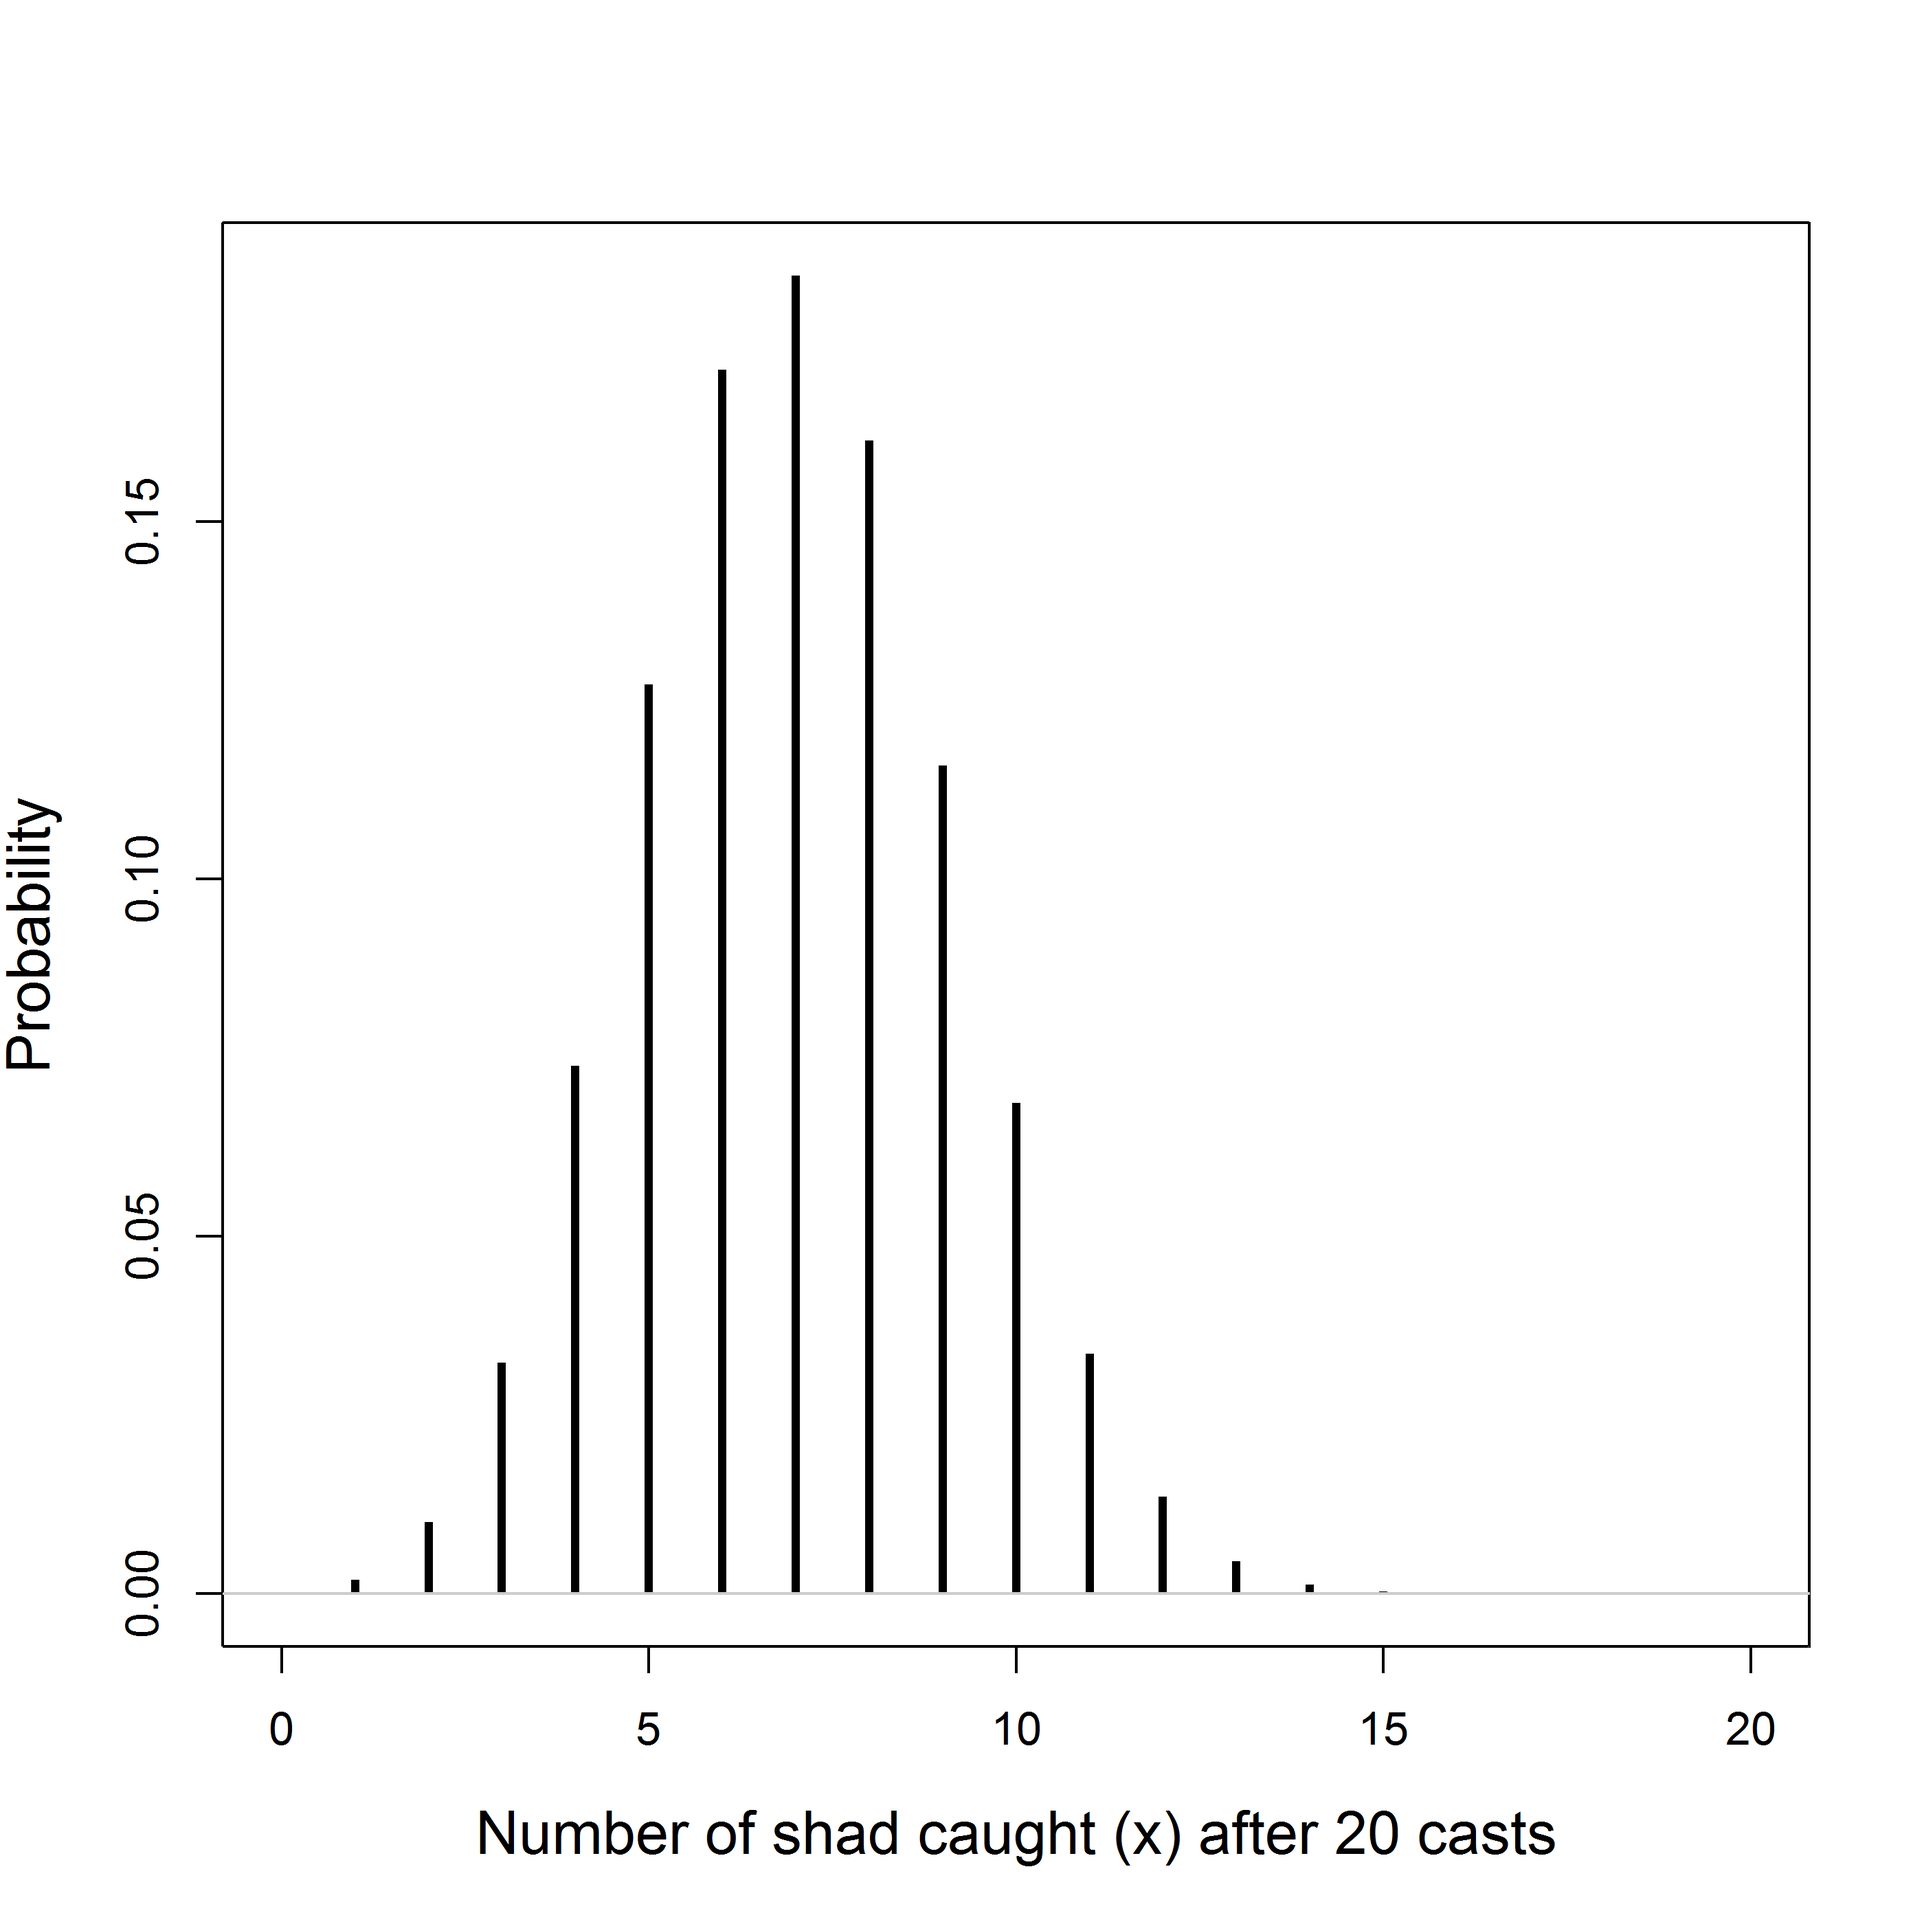
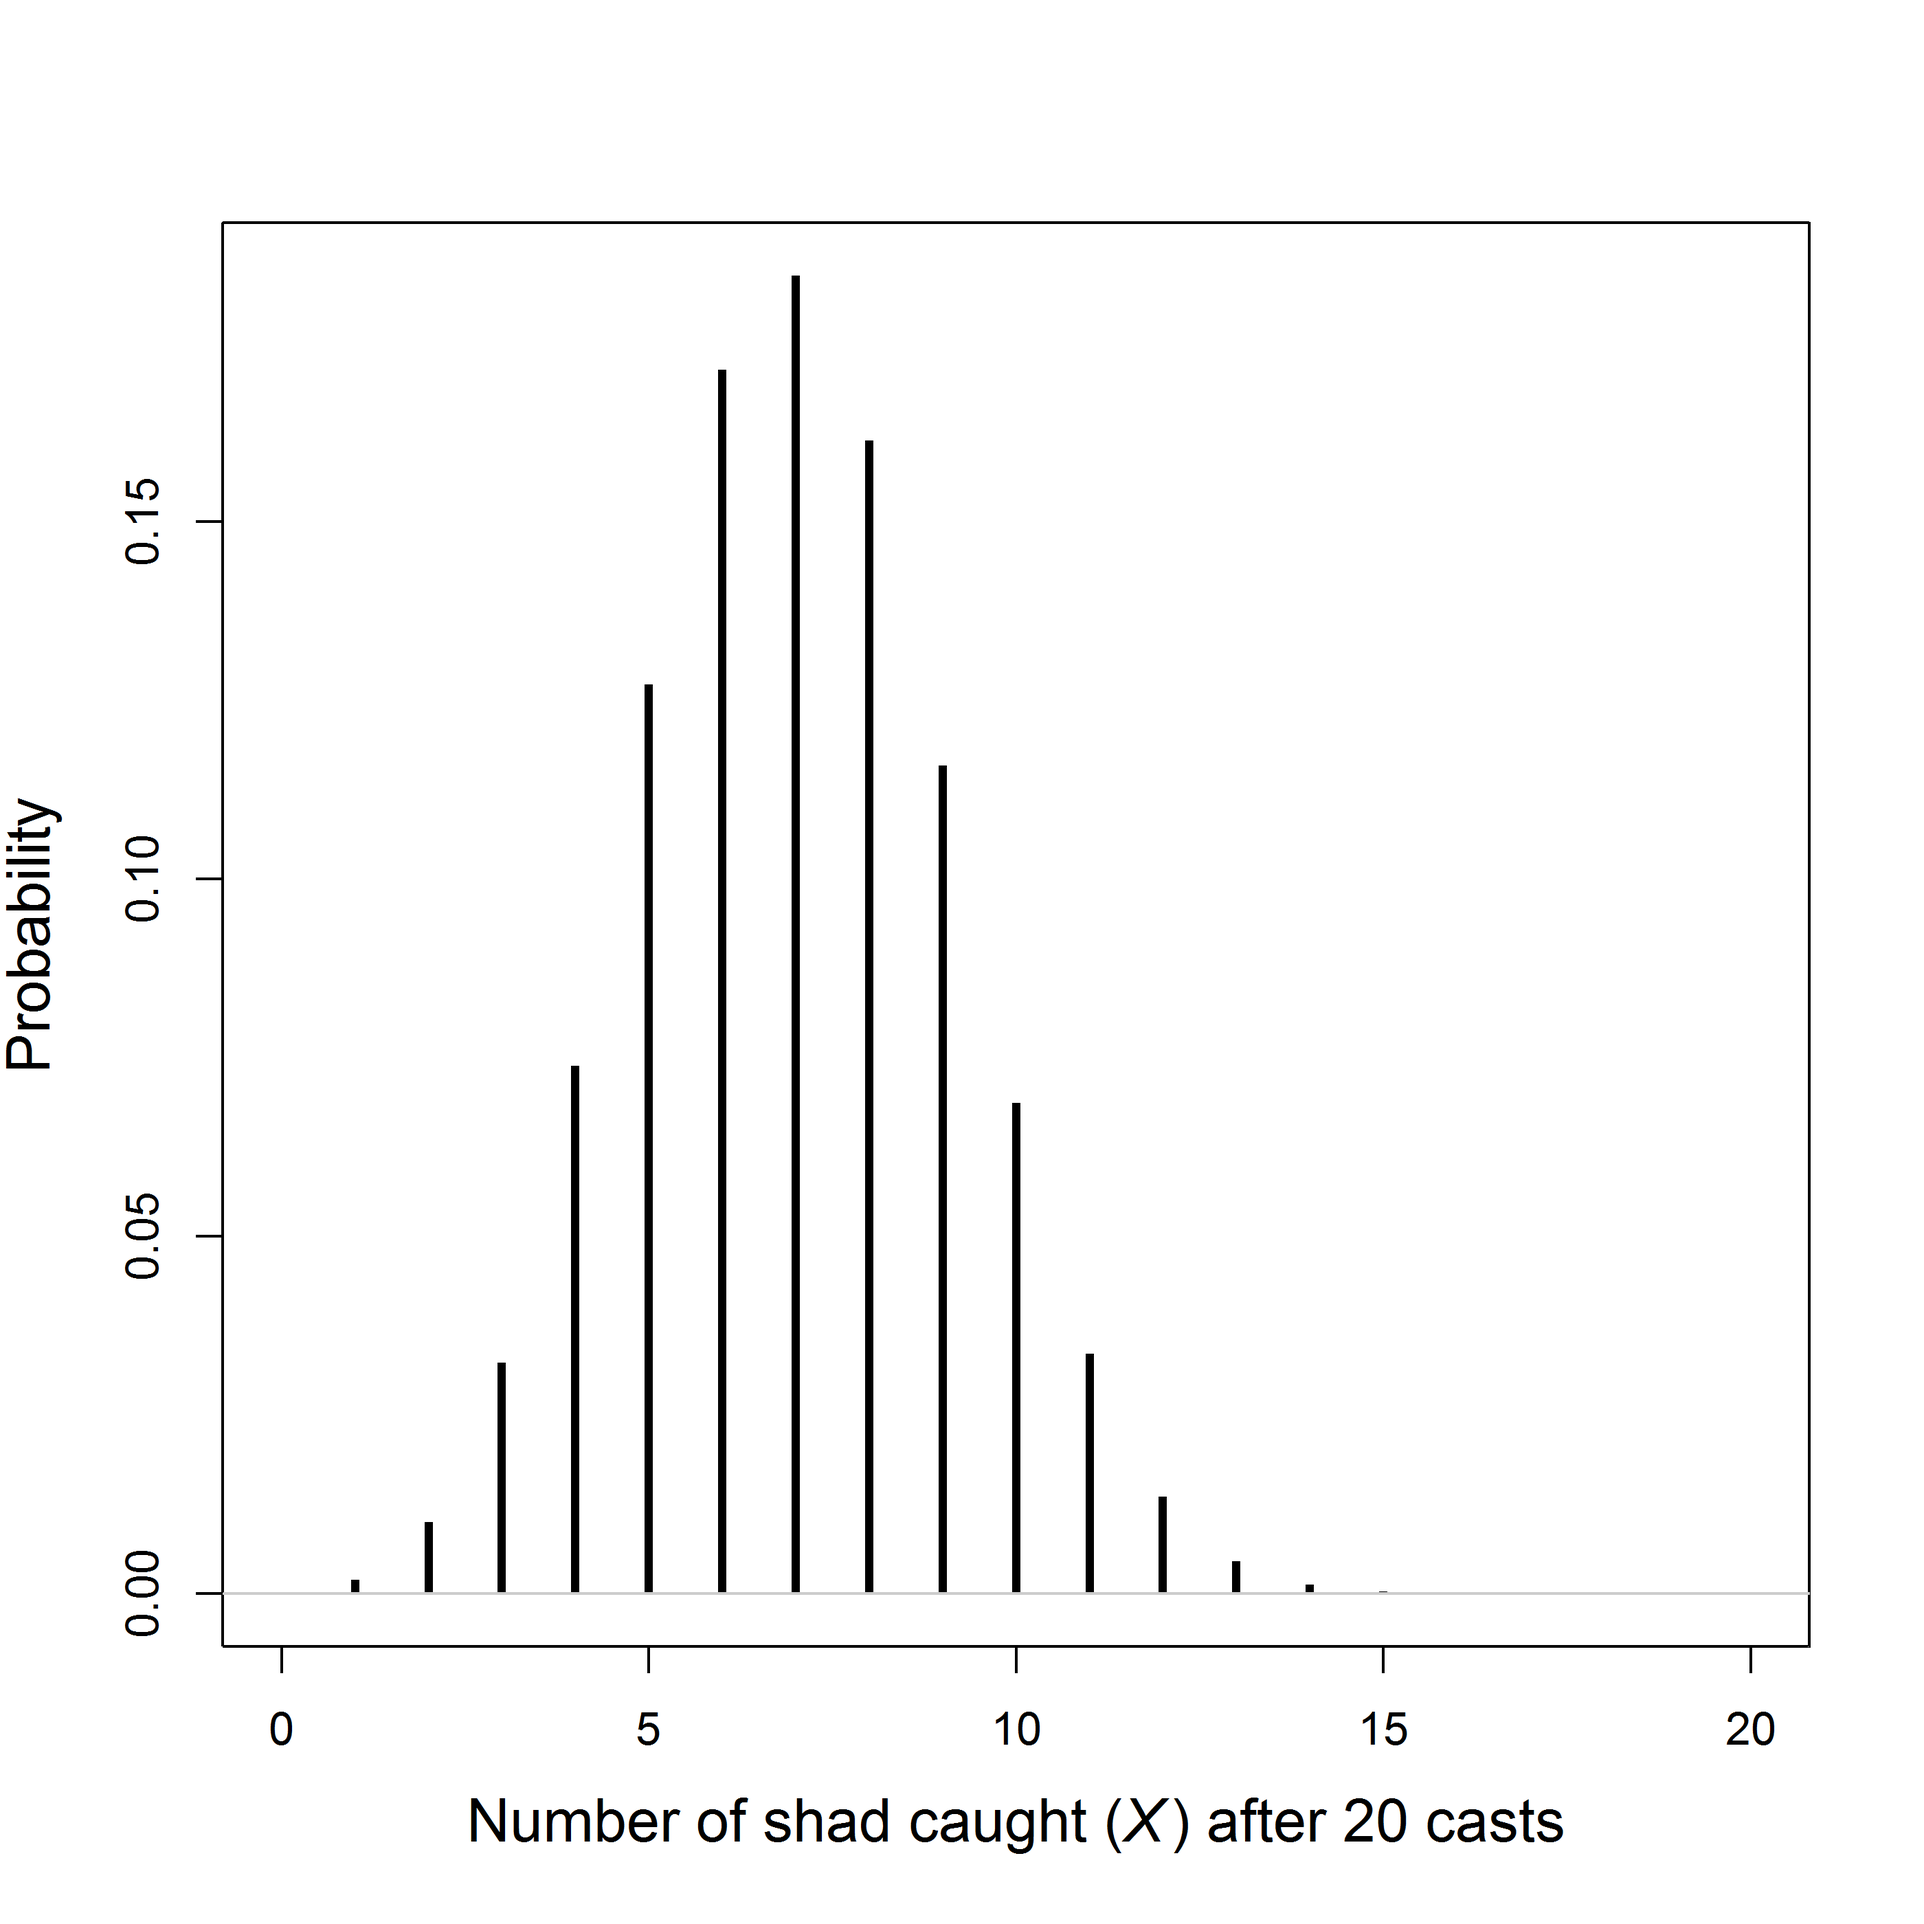
Changing notation in Ch1b

Changed region(s): [[0.2486, 0.9321, 0.8079, 0.9632]]

diff --git a/Ch1b/Ch1b.tex b/Ch1b/Ch1b.tex
@@ -61,8 +61,8 @@ hierarchical modeler, \emph{e.g.} assumptions are bad.
 
 \subsection{Stochasticity in ecology}
 
-{\bf XXXXX We need to talk about use of X vs use of x. The usage here
-  is correct but we don't do this throughout the book XXXXX}
+%{\bf XXXXX We need to talk about use of X vs use of x. The usage here
+%  is correct but we don't do this throughout the book XXXXX}
 
 Few ecological processes can be described using purely deterministic
 models, and thus we need a formal method for drawing conclusions from data while
@@ -100,18 +100,26 @@ where $X$ is a continuous random variable, we need a probability density functio
 Statisticians make things easier for themselves,
 and more complicated for everyone else, by using different notation
 for probability distributions. Sometimes you will see
-$\text{Pr}(X=x|K,p)$ expressed as $f(x|K,p)$ or $f(x; K,p)$ or
-$p(x|K,p)$ or $\pi(x|K,p)$ or $\mathbb{P}(x|K,p)$ or $[x|K,p]$ or even
-just $[x]$! Just remember that these expressions all have the same
+$\text{Pr}(X=x|K,p)$ expressed as $f(X|K,p)$ or $f(X; K,p)$ or
+$p(X|K,p)$ or $\pi(X|K,p)$ or $\mathbb{P}(X|K,p)$ or $[X|K,p]$ or even
+just $[X]$! Just remember that these expressions all have the same
 meaning---they are all probability distributions which tell us the
 probability of observing any possible realization of the random
 variable $X$.
 
-In this book, we will use bracket notation (the last two
-examples above) to represent arbitrary probability distributions. The
-key thing to remember when you see $[x]$ is that we are referring to
-the probability distribution for the random variable $x$, which could
-be anything: Poisson, Gaussian, beta, etc... When
+In this book, we will use bracket notation (e.g. the last two
+examples above) to represent arbitrary probability distributions.
+And from here on, we will no longer use uppercase letters to denote
+random variables and lowercase letters for realized values. %One reason
+for this is that we find it more convenient to let $N$ represent
+%population size and $n$ represent a count statistic,
+Hence, the
+probability distribution for the random variable $x$ will simply be
+denoted $[x]$. Or, if we wish to be clear about the parameters of the
+distribution, we will write something like $[x|K,p]$. The important
+thing to realize when you see such an expression is that it simply
+represents a probability distribution for the random variable $x$,
+which could be anything: Poisson, Gaussian, beta, etc $\dots$. When
 we wish to be specific about the probability distribution, we will do
 so in one of two ways, one precise and one symbolic. Before explaining
 these two options, let's choose a specific distribution as a model for
@@ -129,7 +137,7 @@ values for the parameters $K$, and $p$ will return the probability of
 observing $x$. This is precise, but cumbersome to write repetitively,
 and it may make the eyes glaze over when seen too often. Thus, we will
 often simplify Eq.~\ref{modeling.eq.bin} using the symbolic notation:
-{\bf XXXXX below -- little x or big X?? XXXXX}
+%{\bf XXXXX below -- little x or big X?? XXXXX}
 \begin{equation}
   x \sim \text{Binomial}(K, p)
   \label{modeling.eq.binsym}
@@ -154,11 +162,11 @@ it resembles the syntax of the \bugs~language, which we will
 frequently use to conduct Bayesian inference.
 
 Note that once we choose a probability distribution, we have chosen a
-model. In our example, we have specified our model as $x \sim
+model. In our example, we have specified our model as $X \sim
 \text{Bin}(K,p)$, and because we are assuming that the parameters are
 known, we can make probability statments about future
 outcomes. Continuing with our fish example, we might want to know what
-the probability of catching $x=7$ again on a future fishing outing
+the probability of catching $X=7$ again on a future fishing outing
 assuming that we know $p=0.35$. Evaluating the binomial pmf returns a
 probability of 0.18, as show using this bit of \R~code:
 \begin{verbatim}
@@ -166,12 +174,12 @@ probability of 0.18, as show using this bit of \R~code:
 [1] 0.1844012
 \end{verbatim}
 By definition, the pmf allows us to evaluate the probability of observing
-any $x$ given $K=20$ and $p=.35$, thus the distribution can be visualed
-by can be visualized by evaluating it for all values of $x$ that have
+any $X$ given $K=20$ and $p=0.35$, thus the distribution %can be visualed
+can be visualized by evaluating it for all values of $X$ that have
 non-negligible probabilities, as can be easily done in \R:
 \begin{verbatim}
 plot(0:20, dbinom(0:20, 20, 0.35), type="h", ylab="Probability",
-     xlab="Number of shad caught (x)")
+     xlab="Number of shad caught (X)")
 \end{verbatim}
 the result of which is shown in Fig.\ref{modeling.fig.bin} with some extra details.
 \begin{figure}[ht!]
